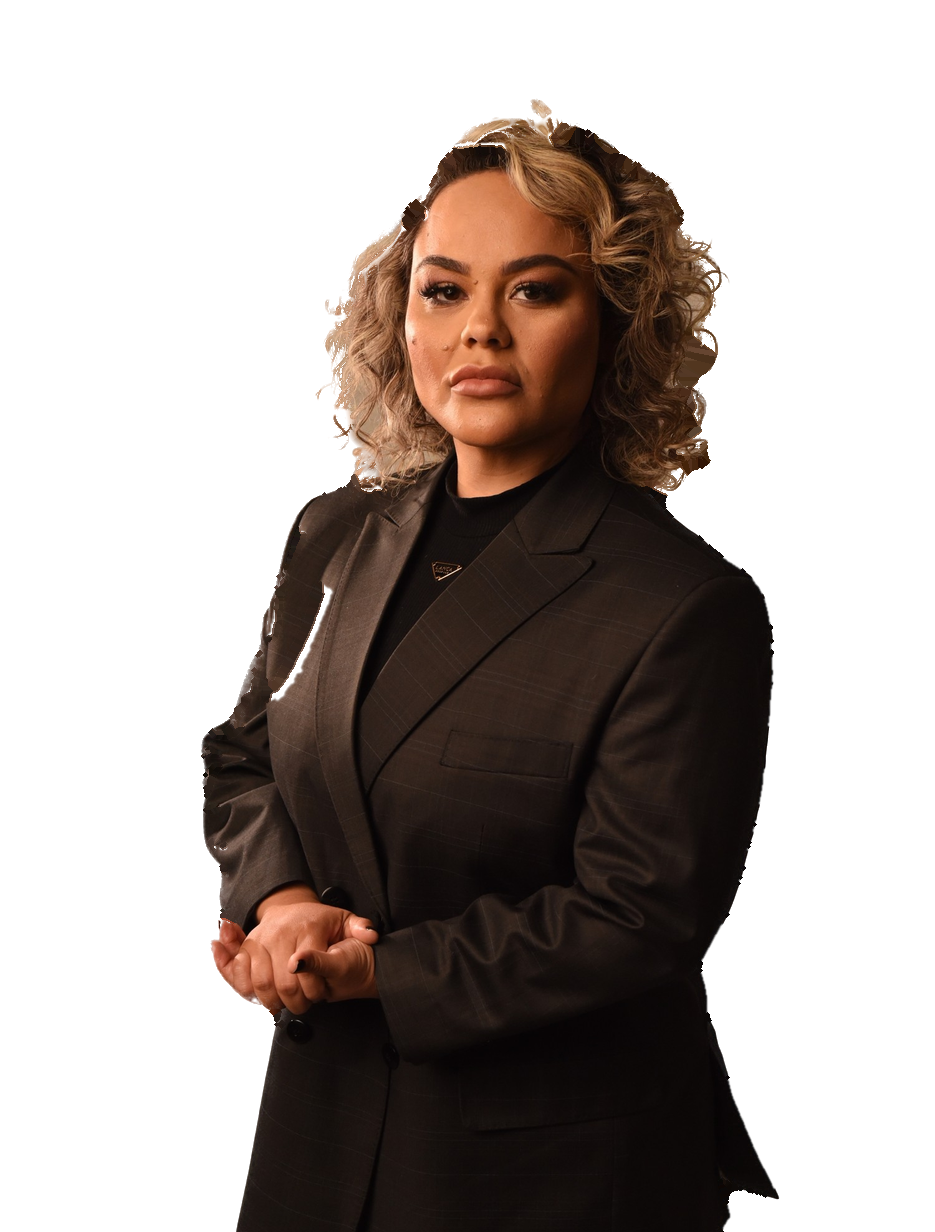
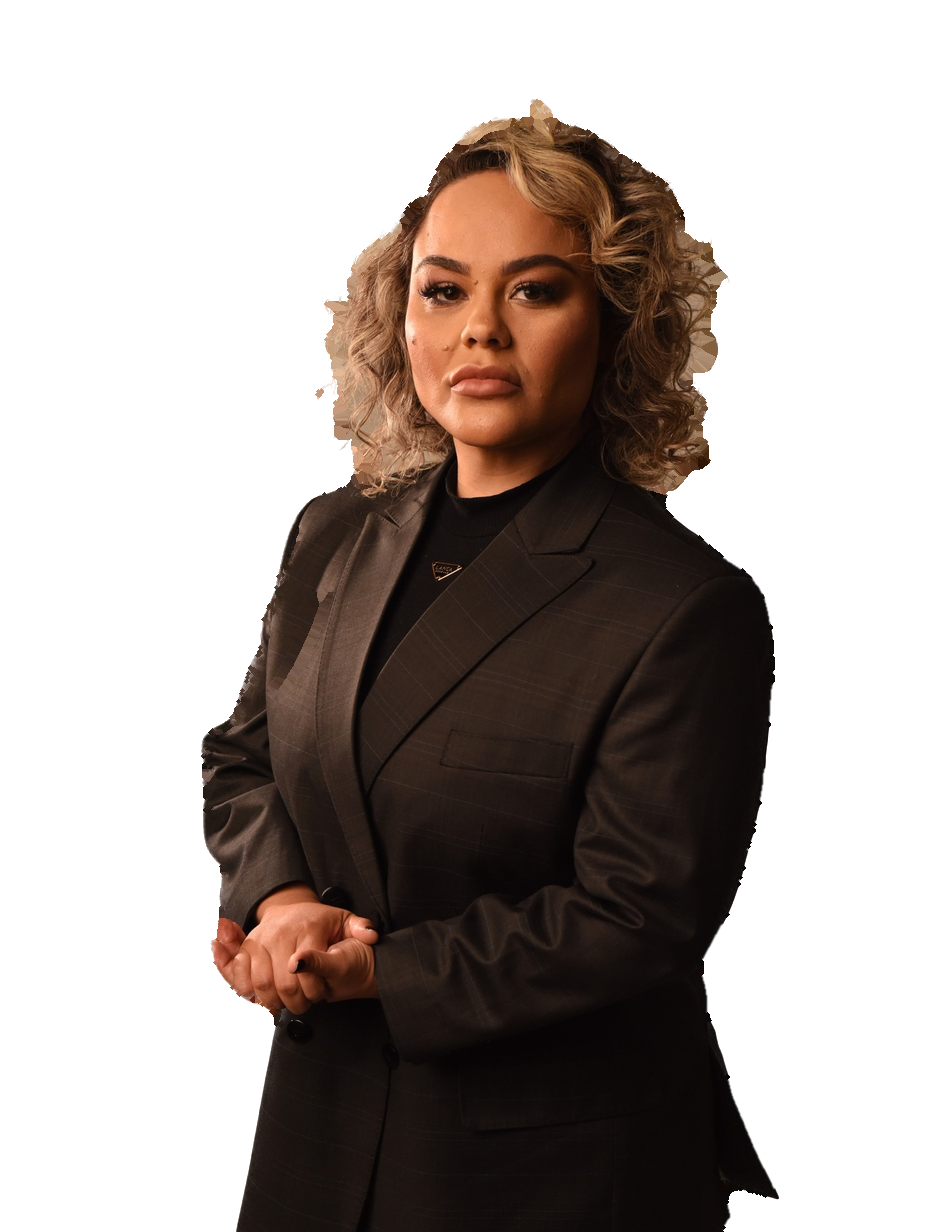
Recortes em andamento
Claude-Session: https://claude.ai/code/session_01XttdTbpYBzsaA5vhN67mRE

diff --git a/black-vitalicia/src/recortar.py b/black-vitalicia/src/recortar.py
@@ -1,7 +1,8 @@
 #!/usr/bin/env python3
 """Recorta a Dra. Proton das fotos curadas (U2Net human seg -> trimap -> pymatting).
-Uso: python3 src/recortar.py NN [NN ...]        (gera recortes/recorte-NN.png + previews)
+Uso: python3 src/recortar.py NN [NN ...]        (gera recortes/recorte-NN.png + previews; max 3 processos em paralelo)
      python3 src/recortar.py --json              (monta recortes/recortes.json)
+Fotos aprovadas: 03 04 05 06 08 10 11 12 14 17 20 23 24 25 30 31 33 34 36 39(=IMG_9791)
 Fonte: fotos/foto-NN.jpg (NN=39 usa o original IMG_9791 baixado do Drive em fotos/orig/IMG_9791.jpg).
 """
 import sys, os, json
@@ -42,6 +43,8 @@ def keep_main(a, thr=0.1, min_frac=0.02):
 HOLES = {'17': [(660, 850, 760, 1060)], '34': [(645, 860, 750, 1060), (180, 895, 265, 1030)],
          '31': [(675, 860, 750, 1070)], '11': [(550, 750, 615, 950)], '25': [(670, 820, 760, 1030)]}
 NR = 12
+HALO_R = 12
+FGH = 16
 HOLE_MAX = 2500
 KEEPFR = {'04'}
 FA_MAX, FS_MAX, FL_MIN = .85, .28, .40
@@ -65,6 +68,7 @@ def cut(nn):
     m = u2(im, sess)
     m = nd.gaussian_filter(m, 1.0)
     fg = nd.binary_erosion(m > .92, iterations=12)
+    fg_hard = nd.binary_erosion(m > .85, iterations=FGH)
     bg = ~nd.binary_dilation(m > .04, iterations=20)
     tri = np.full(m.shape, .5); tri[fg] = 1; tri[bg] = 0
     img = np.asarray(im, dtype=np.float64) / 255.
@@ -88,6 +92,7 @@ def cut(nn):
     k = np.clip((d - BG_LO_) / (BG_HI_ - BG_LO_), 0, 1)
     k = np.maximum(k, core)
     a = a * k
+    a = np.where(fg_hard, 1.0, a)   # miolo seguro do corpo nunca fica transparente
     # vaos de fundo dentro do corpo (entre braco e tronco): componentes grandes com cor == fundo
     yy = (np.arange(d.shape[0])[:, None] > GAP_Y * d.shape[0])
     luma = img.mean(-1)
@@ -109,7 +114,8 @@ def cut(nn):
     lin = nd.gaussian_filter(lum * inn, 3) / (nd.gaussian_filter(inn.astype(float), 3) + 1e-6)
     lin = lin[ii[0], ii[1]]
     dist = nd.distance_transform_edt(~inn)
-    halo = (dist < 9) & (dist > 0) & (lin < .22) & (lum > lin + .10)
+    dout_ = nd.distance_transform_edt(m > .3)
+    halo = (dist < 9) & (dist > 0) & (lin < .22) & (lum > lin + .10) & (dout_ < HALO_R)
     halo = nd.binary_dilation(halo, iterations=1)
     a = a * (1 - nd.gaussian_filter(halo.astype(float), 0.8))
     # franja neutra/clara colada na silhueta (fundo vazando): tira (nao vale p/ terno branco)
@@ -145,10 +151,12 @@ def cut(nn):
     disk = (xx_ ** 2 + yy_ ** 2) <= NR ** 2
     cl = nd.binary_closing(core, structure=disk)
     fill = cl & ~core
+    d5 = (xx_ ** 2 + yy_ ** 2) <= 36
+    crack = nd.binary_closing(core, structure=d5) & ~core      # rachaduras finas: qualquer cor
     for (x0, y0, x1, y1) in HOLES.get(nn, []):
         fill[y0 + PAD:y1 + PAD, x0 + PAD:x1 + PAD] = False
     # buracos totalmente cercados (brilho do tecido, nao vao entre braco e tronco): preenche se pequenos
-    seal = nd.binary_closing(core, structure=np.ones((7, 7), bool))   # sela rachaduras finas
+    seal = nd.binary_closing(core, structure=np.ones((15, 15), bool))   # sela rachaduras finas
     enc = nd.binary_fill_holes(seal) & ~core
     lab_e, ne = nd.label(enc)
     for i, sl in enumerate(nd.find_objects(lab_e)):
@@ -161,7 +169,10 @@ def cut(nn):
     ix = nd.distance_transform_edt(~ci, return_distances=False, return_indices=True)
     lin2 = lum[ix[0], ix[1]]
     lin2 = nd.gaussian_filter(lum * ci, 4)[ix[0], ix[1]] / (nd.gaussian_filter(ci.astype(float), 4)[ix[0], ix[1]] + 1e-6)
-    fill &= ((lin2 < .26) | (enc & ~nd.binary_dilation(core, iterations=0)))
+    fill &= ((lin2 < .26) | enc)
+    for (x0, y0, x1, y1) in HOLES.get(nn, []):
+        crack[y0 + PAD:y1 + PAD, x0 + PAD:x1 + PAD] = False
+    fill |= crack
     fm = nd.binary_dilation(fill, iterations=2).astype(float)
     fm = np.where(fm > 0, 1.0, 0.0)
     f = f * (1 - fm[..., None]) + f[ix[0], ix[1]] * fm[..., None]
@@ -181,8 +192,54 @@ def preview(nn, w=700):
     d = os.environ.get('PREVDIR', '/tmp'); os.makedirs(d, exist_ok=True)
     S.save(f'{d}/prev-{nn}.jpg', quality=90)
 
+# metadados curados a mao: expressao, enquadramento, olhando (para onde o rosto se inclina), roupa
+META = {
+    '03': ('seria', 'cintura', 'frente', 'blazer de veludo bordo, camisa azul'),
+    '04': ('seria', 'cintura', 'frente', 'terno branco'),
+    '05': ('seria', 'cintura', 'frente', 'blazer preto transpassado, top preto'),
+    '06': ('seria', 'cintura', 'frente', 'blazer preto transpassado, top preto'),
+    '08': ('seria', 'cintura', 'frente', 'blazer preto transpassado, top preto'),
+    '10': ('seria', 'cintura', 'frente', 'blazer preto, top preto'),
+    '11': ('seria', 'cintura', 'frente', 'blazer preto transpassado, top preto'),
+    '12': ('seria', 'cintura', 'esquerda', 'blazer preto, top preto'),
+    '14': ('seria', 'cintura', 'frente', 'blazer preto, top preto'),
+    '17': ('seria', 'cintura', 'frente', 'blazer preto, top preto'),
+    '20': ('seria', 'cintura', 'frente', 'blazer preto, top preto'),
+    '23': ('seria', 'cintura', 'frente', 'blazer preto, top preto'),
+    '24': ('serena', 'cintura', 'frente', 'blazer preto, top preto'),
+    '25': ('seria', 'cintura', 'frente', 'blazer preto, top preto'),
+    '30': ('seria', 'cintura', 'frente', 'blazer preto, top preto'),
+    '31': ('seria', 'cintura', 'esquerda', 'blazer preto, top preto'),
+    '33': ('seria', 'peito', 'frente', 'blazer preto, top preto'),
+    '34': ('seria', 'cintura', 'esquerda', 'blazer preto, top preto'),
+    '36': ('feliz', 'cintura', 'esquerda', 'blazer preto, top preto'),
+    '39': ('seria', 'peito', 'frente', 'blazer preto, top preto'),
+}
+
+def montar_json():
+    import glob
+    fotos = {x['arquivo'][5:7]: x for x in json.load(open(ROOT + '/fotos/fotos.json'))}
+    saida = []
+    for f in sorted(glob.glob(OUT + '/recorte-*.png')):
+        nn = os.path.basename(f)[8:10]
+        im = Image.open(f); W, H = im.size
+        al = np.asarray(im.getchannel('A'))
+        ys, xs = np.nonzero(al > 0.1 * 255)
+        expr, enq, olh, roupa = META[nn]
+        if nn in fotos:
+            fx, fy, orig = fotos[nn]['ponto_focal_x'], fotos[nn]['ponto_focal_y'], fotos[nn]['original']
+        else:
+            fx, fy, orig = 0.48, 0.33, 'IMG_9791.JPG'
+        fy = fy / CROP.get(nn, 1.0)
+        saida.append({'arquivo': f'recorte-{nn}.png', 'origem': orig, 'expressao': expr, 'enquadramento': enq,
+                      'bbox': [int(xs.min()), int(ys.min()), int(xs.max()), int(ys.max())],
+                      'largura': W, 'altura': H, 'olhando': olh, 'roupa': roupa,
+                      'ponto_rosto': [round(fx, 3), round(min(fy, 0.95), 3)]})
+    json.dump(saida, open(OUT + '/recortes.json', 'w'), ensure_ascii=False, indent=1)
+    print(len(saida), 'recortes em recortes.json')
+
 if __name__ == '__main__':
     if sys.argv[1] == '--json':
-        raise SystemExit('ver recortes.json gerado a parte (meta em src/recortes_meta.json)')
+        montar_json(); raise SystemExit
     for nn in sys.argv[1:]:
         cut(nn); preview(nn); print('ok', nn, flush=True)
